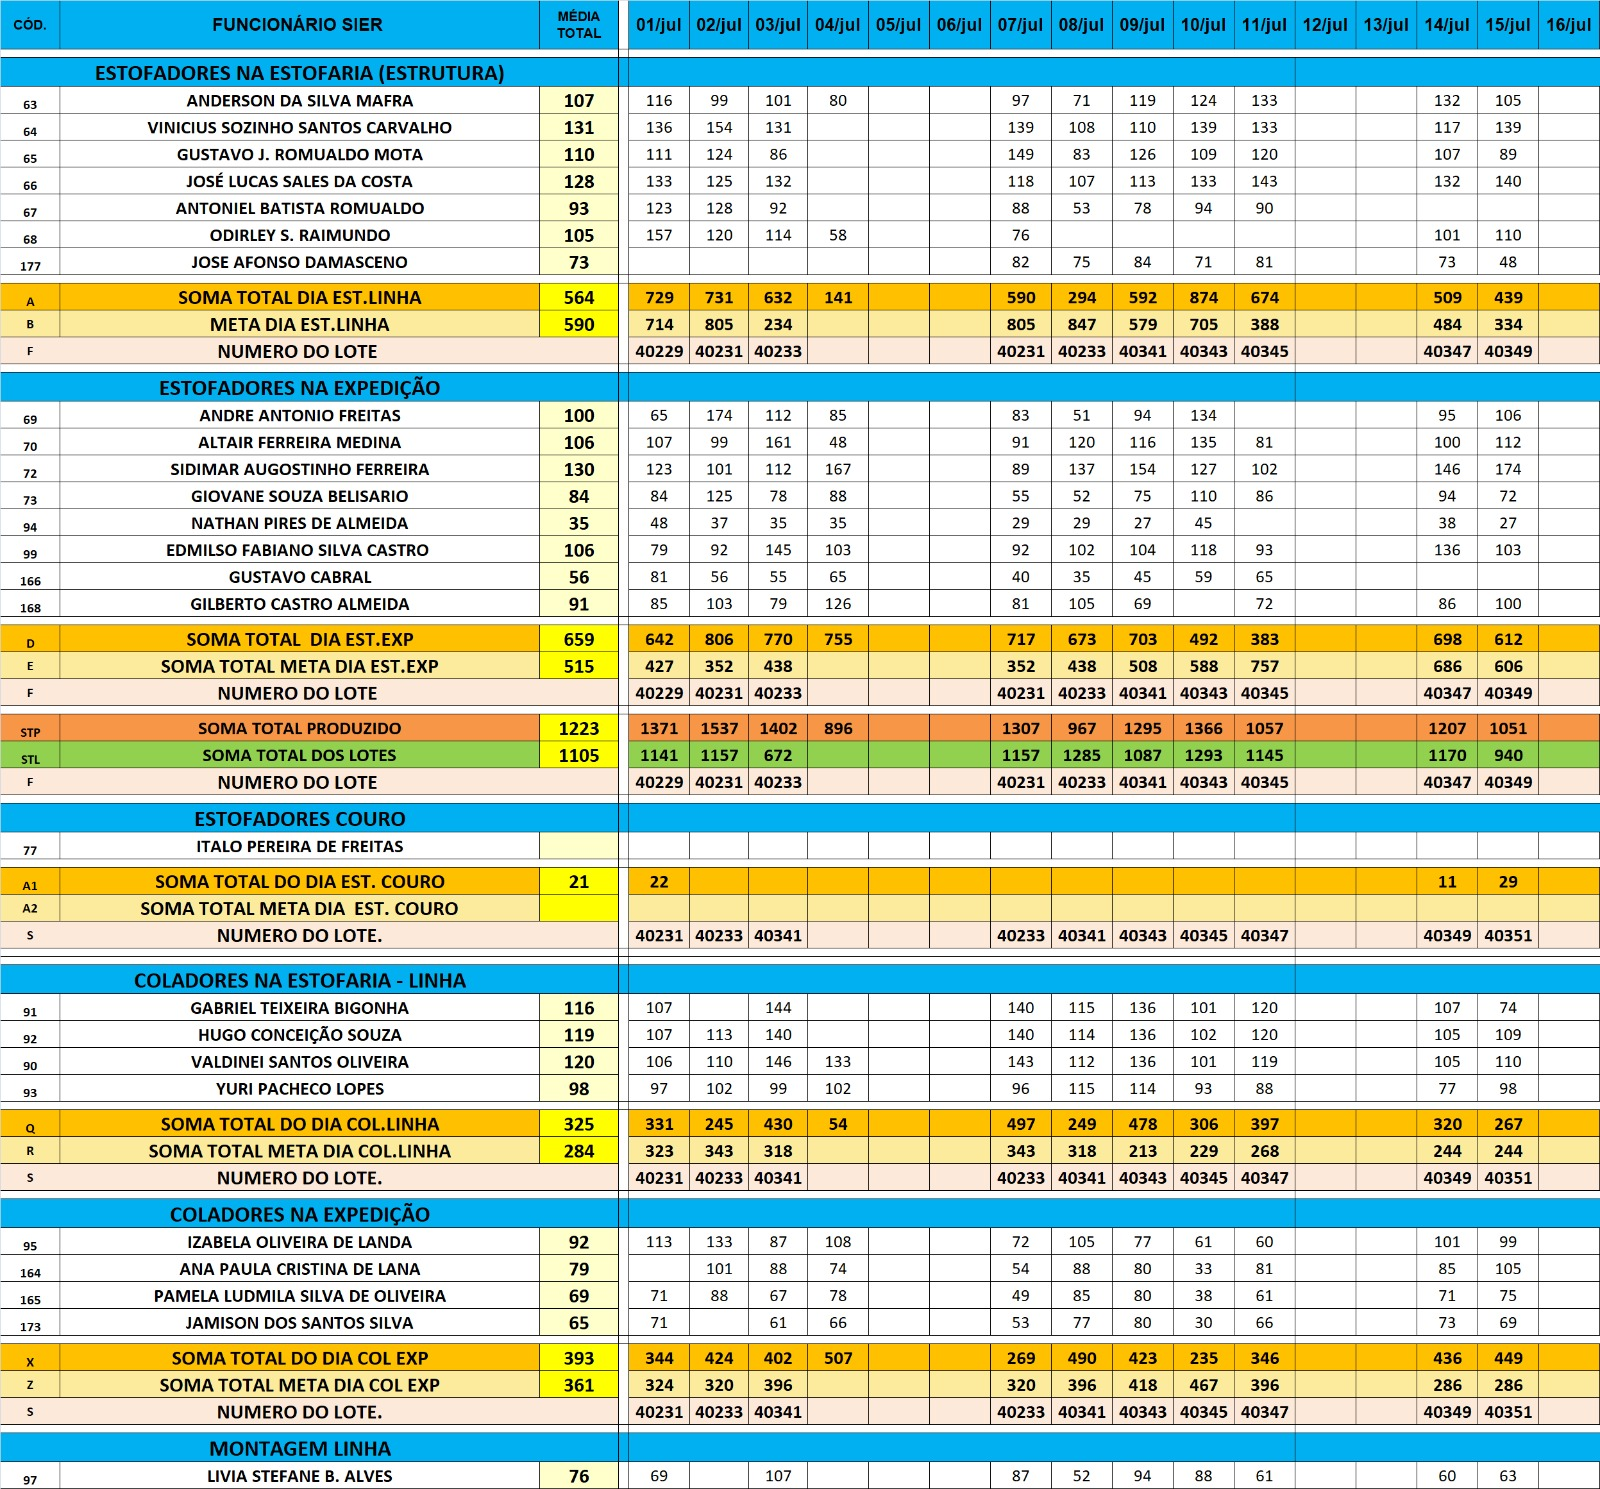
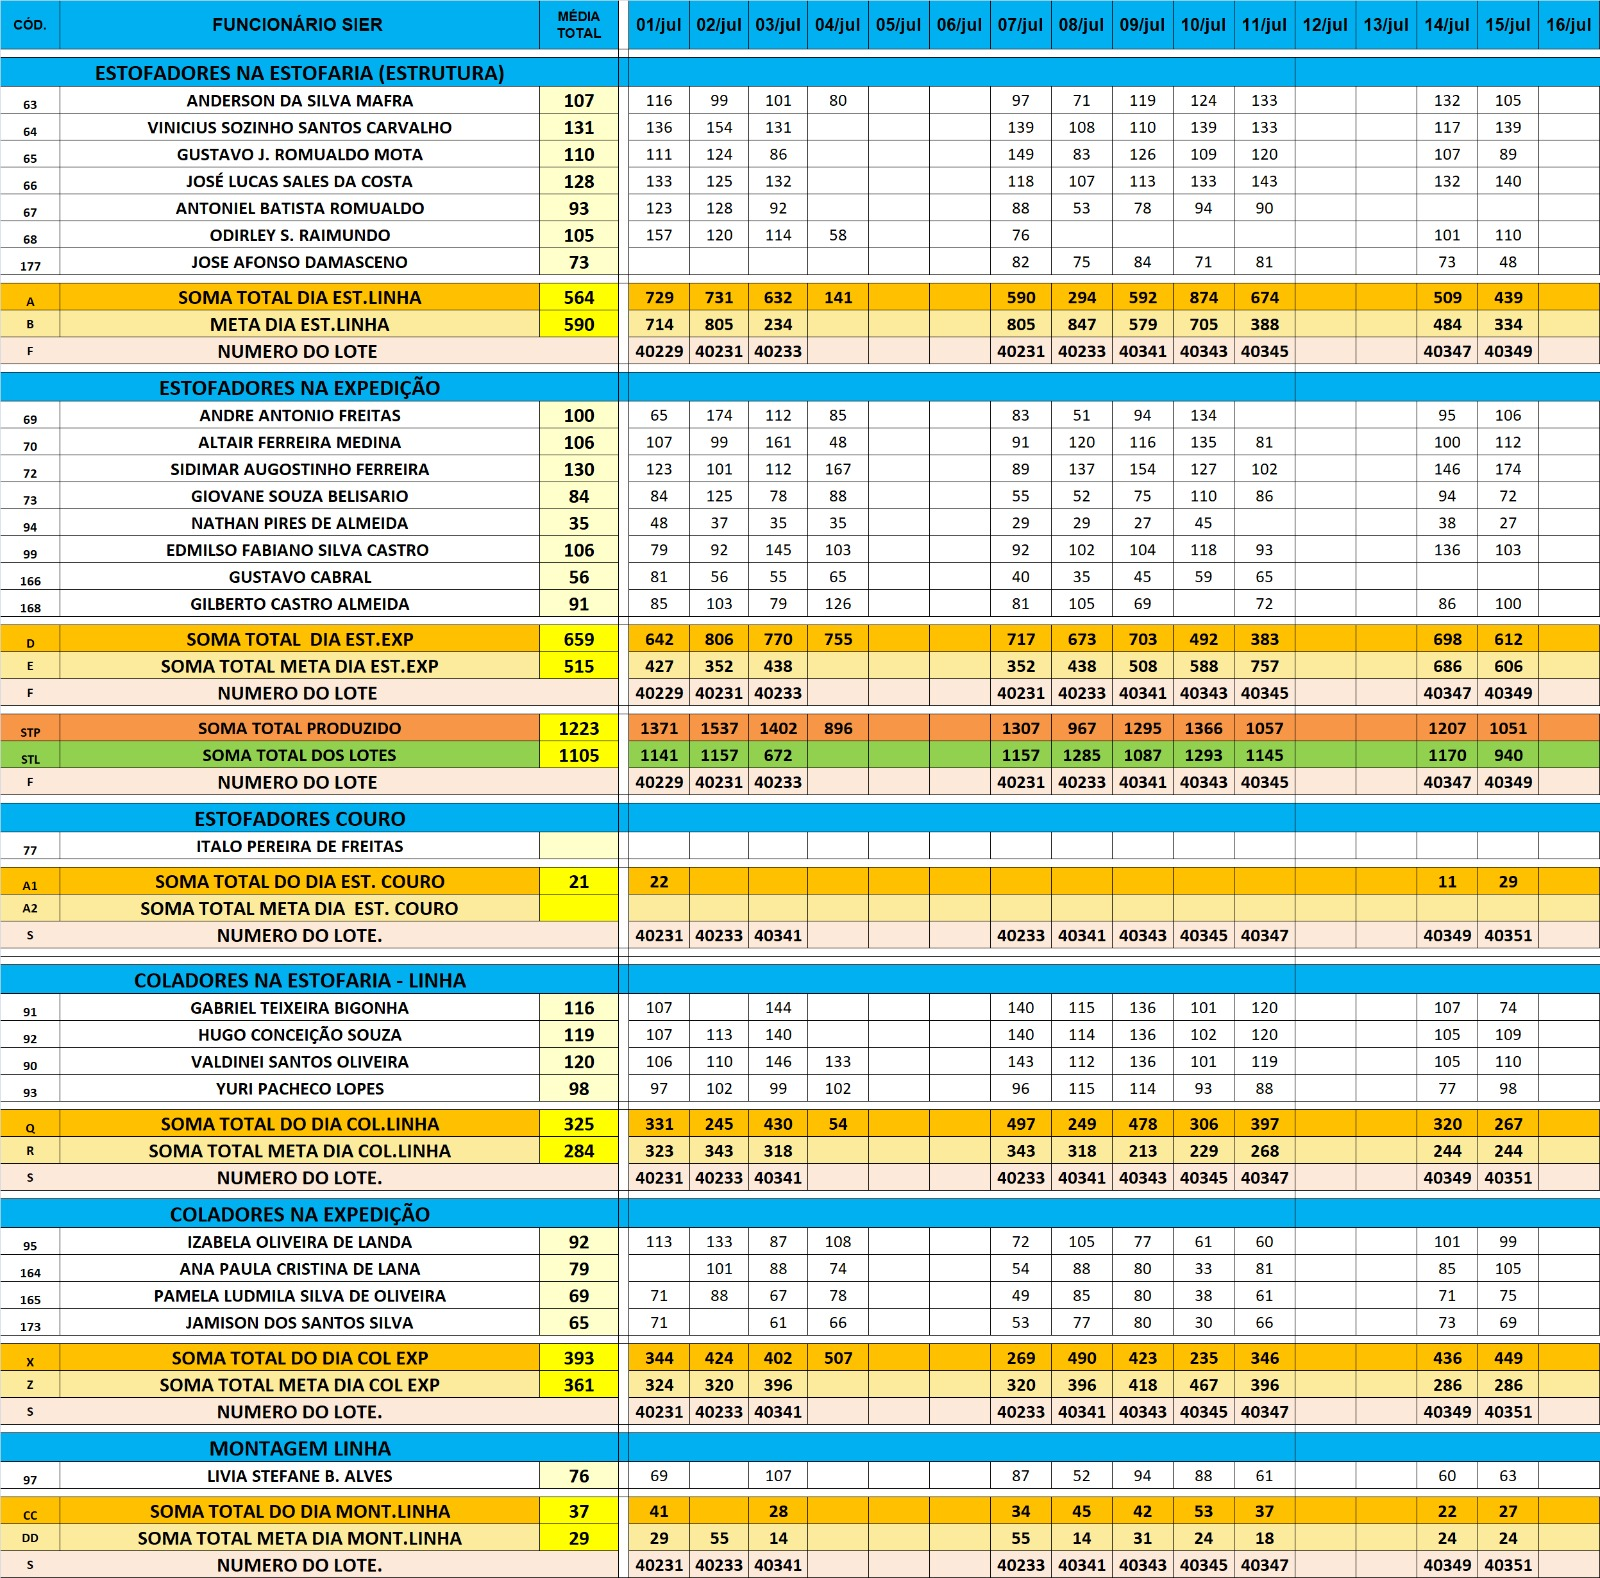
,

diff --git a/back__incial.js b/back__incial.js
@@ -1031,7 +1031,7 @@ const unidades = {
             { data: "10/07/2025", captura: ["capturas/Unidade 2/Estofaria/2025/Estofaria/07-JULHO/10-pt1.jpeg", "capturas/Unidade 2/Estofaria/2025/Estofaria/07-JULHO/10-pt2.jpeg", "capturas/Unidade 2/Estofaria/2025/Estofaria/07-JULHO/10-pt3.jpeg", "capturas/Unidade 2/Estofaria/2025/Bordadeira/07-JULHO/10.jpg"] },
             { data: "11/07/2025", captura: ["capturas/Unidade 2/Estofaria/2025/Estofaria/07-JULHO/11-pt1.jpeg", "capturas/Unidade 2/Estofaria/2025/Estofaria/07-JULHO/11-pt2.jpeg", "capturas/Unidade 2/Estofaria/2025/Estofaria/07-JULHO/11-pt3.jpeg"] },
             { data: "14/07/2025", captura: ["capturas/Unidade 2/Estofaria/2025/Estofaria/07-JULHO/14-pt1.jpeg", "capturas/Unidade 2/Estofaria/2025/Estofaria/07-JULHO/14-pt2.jpeg", "capturas/Unidade 2/Estofaria/2025/Estofaria/07-JULHO/14-pt3.jpeg", "capturas/Unidade 2/Estofaria/2025/Estofaria/07-JULHO/14-pt3-hora-extra.jpeg"] },
-
+            { data: "15/07/2025", captura: ["capturas/Unidade 2/Estofaria/2025/Estofaria/07-JULHO/15-pt1.jpeg", "capturas/Unidade 2/Estofaria/2025/Estofaria/07-JULHO/15-pt2.jpeg", "capturas/Unidade 2/Estofaria/2025/Estofaria/07-JULHO/15-pt3.jpeg"] },
 
 
 
